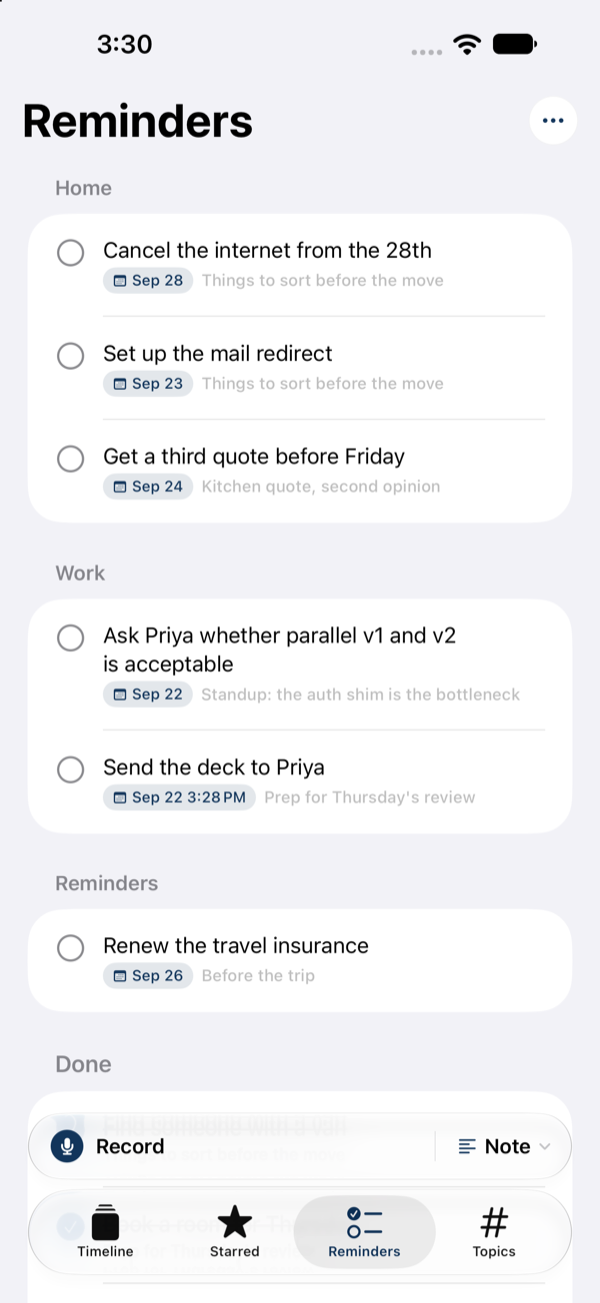
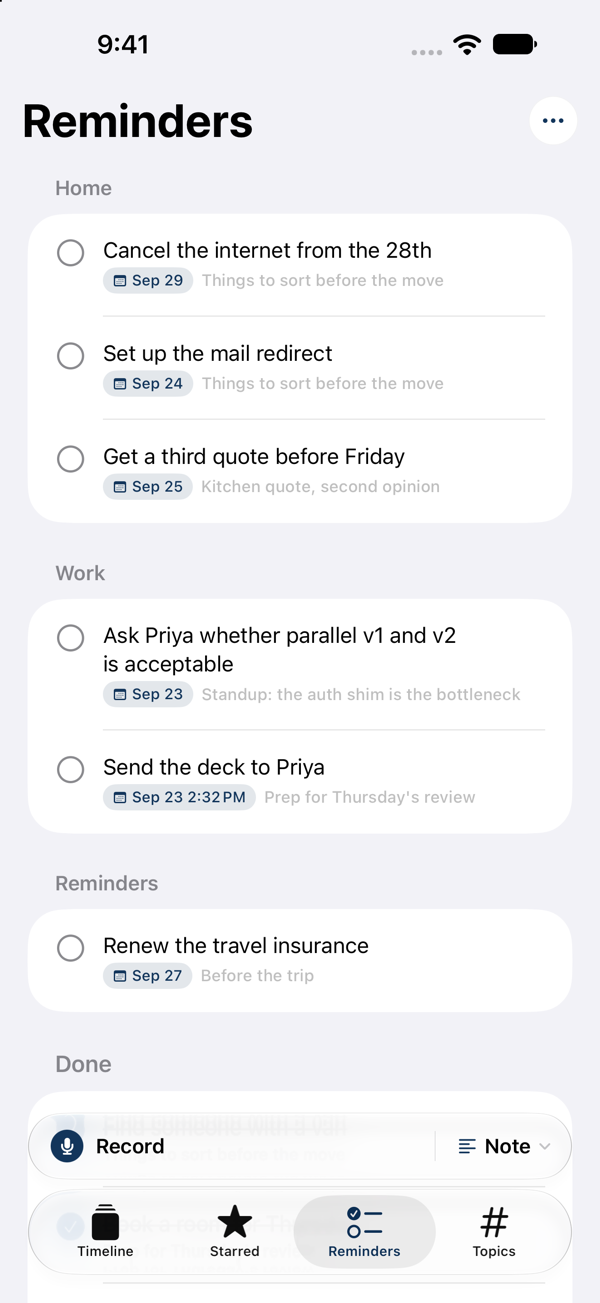
Refresh the gallery screenshots
The note detail shot still showed the old detected-reminders card, where
Clear was a word in the corner rather than a button, so the gallery was
advertising an interface the app no longer has. Reminders, search and
year in review come from the same fresh pass.

Search now shows "the move", which returns two notes rather than one, so
the highlighting is visible more than once. Alt text follows.

The recording shot is unchanged: the Simulator has no microphone, so
that screen can only be captured on a real device.

diff --git a/index.html b/index.html
@@ -138,7 +138,7 @@
      and is marked out by a dotted grid that fades to nothing on all four
      sides, so it reads as a pause rather than an interruption. The dots live
      on a pseudo-element purely so the mask doesn't touch the text. */
-  .quote { position: relative; padding: 104px 0 96px; overflow: hidden; }
+  .quote { position: relative; padding: 152px 0 144px; overflow: hidden; }
   .quote::before {
     content: ""; position: absolute; inset: 0; pointer-events: none;
     background-image: radial-gradient(circle at 1px 1px, var(--dot) 1.4px, transparent 0);
@@ -198,10 +198,11 @@
     text-wrap: balance;
   }
   .pricing-intro { align-self: center; padding-right: 8px; }
-  .pricing-intro p {
+  .pricing-intro p:not(.status) {
     color: var(--body); margin: 0;
     font-size: .96rem; line-height: 1.62;
   }
+  .pricing-intro .status { margin-top: 24px; }
   .plan {
     background: var(--card); border-radius: 20px;
     padding: 26px 26px 28px; box-shadow: var(--shadow);
@@ -243,7 +244,7 @@
     .hero { padding: 56px 0 48px; }
     .cards { grid-template-columns: 1fr; padding: 64px 24px 72px; }
     .shots { grid-template-columns: 1fr 1fr; gap: 14px; }
-    .quote { padding: 70px 0 64px; }
+    .quote { padding: 104px 0 96px; }
     .quote-grid { grid-template-columns: 1fr; gap: 24px; justify-content: start; }
     .portrait { width: 88px; height: 88px; }
     .pricing { padding: 72px 0 76px; }
@@ -364,7 +365,7 @@
     <div class="shots">
       <div class="phone"><img loading="lazy" decoding="async" src="assets/record.png" width="600" height="1303" alt="Recording in progress, with a timer and a live transcript."></div>
       <div class="phone"><img loading="lazy" decoding="async" src="assets/transcript.png" width="600" height="1303" alt="A finished note with its summary and transcript."></div>
-      <div class="phone"><img loading="lazy" decoding="async" src="assets/search.png" width="600" height="1303" alt="Search results for “the wall”, with the matching words highlighted."></div>
+      <div class="phone"><img loading="lazy" decoding="async" src="assets/search.png" width="600" height="1303" alt="Search results for “the move”, with the matching words highlighted in two notes."></div>
       <div class="phone"><img loading="lazy" decoding="async" src="assets/year.png" width="600" height="1303" alt="Year in review: notes captured, hours recorded, a monthly rhythm and a streak."></div>
     </div>
   </div>
@@ -375,6 +376,7 @@
     <div class="pricing-intro">
       <h2>Small enough to be free. Good enough to pay for.</h2>
       <p>The free plan covers everyday use. Upgrade when you need more room.</p>
+      <p class="status"><svg viewBox="0 0 24 24" aria-hidden="true" focusable="false"><use href="#i-apple"/></svg>Coming soon to the App&nbsp;Store</p>
     </div>
 
     <div class="plan">
